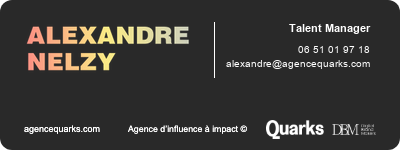
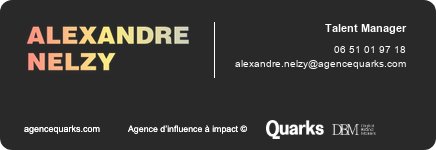
Mettre à jour l’adresse et aérer la signature d’Alexandre
* Mettre à jour l’adresse et aérer la signature d’Alexandre

* Corriger le texte affiché de l’adresse d’Alexandre

* Corriger le texte affiché de l’adresse d’Alexandre

diff --git a/signatures/alexandre-nelzy/signature.html b/signatures/alexandre-nelzy/signature.html
@@ -1,15 +1,15 @@
 <!doctype html>
 <html lang="fr"><head><meta charset="utf-8"><meta name="viewport" content="width=device-width,initial-scale=1"><title>Signature — Alexandre Nelzy</title></head>
 <body style="margin:0;padding:0;background:#fff;">
-<table id="signature" role="presentation" width="400" height="150" cellpadding="0" cellspacing="0" border="0" bgcolor="#292929" style="width:400px;height:150px;table-layout:fixed;border-collapse:separate;border-spacing:0;border-radius:12px;background:#292929;color:#fff;font-family:Arial,Helvetica,sans-serif;-webkit-text-size-adjust:100%;">
+<table id="signature" role="presentation" width="436" height="150" cellpadding="0" cellspacing="0" border="0" bgcolor="#292929" style="width:436px;height:150px;table-layout:fixed;border-collapse:separate;border-spacing:0;border-radius:12px;background:#292929;color:#fff;font-family:Arial,Helvetica,sans-serif;-webkit-text-size-adjust:100%;">
 <tr><td style="padding:17px 24px 11px;vertical-align:top;">
-<table role="presentation" width="352" cellpadding="0" cellspacing="0" border="0" style="width:352px;table-layout:fixed;border-collapse:collapse;">
+<table role="presentation" width="388" cellpadding="0" cellspacing="0" border="0" style="width:388px;table-layout:fixed;border-collapse:collapse;">
 <tr><td width="190" height="71" valign="top" style="width:190px;height:71px;padding:0;">
 <img src="https://raw.githubusercontent.com/raphaeldumaslevillain-commits/signature-mail-quarks-lea/main/signatures/alexandre-nelzy/identite.png" width="166" alt="Alexandre Nelzy" style="display:block;border:0;width:165.6px;height:auto;">
-</td><td width="162" valign="top" style="width:162px;padding:5px 0 0;">
-<table role="presentation" width="162" cellpadding="0" cellspacing="0" border="0" style="width:162px;table-layout:fixed;border-collapse:separate;border-spacing:0;"><tr><td align="right" style="border-left:1px solid #fff;padding:0 6px 0 8px;height:55px;vertical-align:top;text-align:right;">
+</td><td width="198" valign="top" style="width:198px;padding:5px 0 0;">
+<table role="presentation" width="198" cellpadding="0" cellspacing="0" border="0" style="width:198px;table-layout:fixed;border-collapse:separate;border-spacing:0;"><tr><td align="right" style="border-left:1px solid #fff;padding:0 6px 0 8px;height:55px;vertical-align:top;text-align:right;">
 <div style="font-size:11px;line-height:15px;font-weight:700;white-space:nowrap;">Talent Manager</div>
-<div style="font-size:10px;line-height:14px;padding-top:6px;white-space:nowrap;"><a href="tel:+33651019718" style="color:#fff;text-decoration:none;">06 51 01 97 18</a><br><a href="mailto:alexandre@agencequarks.com" style="color:#fff;text-decoration:none;">alexandre@agencequarks.com</a></div>
+<div style="font-size:10px;line-height:14px;padding-top:6px;white-space:nowrap;"><a href="tel:+33651019718" style="color:#fff;text-decoration:none;">06 51 01 97 18</a><br><a href="mailto:alexandre.nelzy@agencequarks.com" style="color:#fff;text-decoration:none;">alexandre.nelzy@agencequarks.com</a></div>
 </td></tr></table></td></tr>
 <tr><td colspan="2" height="31" style="height:31px;font-size:0;line-height:31px;">&nbsp;</td></tr>
 <tr><td colspan="2" height="20" style="height:20px;padding:0;"><table role="presentation" width="352" cellpadding="0" cellspacing="0" border="0" style="width:352px;table-layout:fixed;border-collapse:collapse;"><tr>

diff --git a/signatures/alexandre-nelzy/index.html b/signatures/alexandre-nelzy/index.html
@@ -1,15 +1,15 @@
 <!doctype html>
 <html lang="fr"><head><meta charset="utf-8"><meta name="viewport" content="width=device-width,initial-scale=1"><title>Signature — Alexandre Nelzy</title></head>
 <body style="margin:0;padding:0;background:#fff;">
-<table id="signature" role="presentation" width="400" height="150" cellpadding="0" cellspacing="0" border="0" bgcolor="#292929" style="width:400px;height:150px;table-layout:fixed;border-collapse:separate;border-spacing:0;border-radius:12px;background:#292929;color:#fff;font-family:Arial,Helvetica,sans-serif;-webkit-text-size-adjust:100%;">
+<table id="signature" role="presentation" width="436" height="150" cellpadding="0" cellspacing="0" border="0" bgcolor="#292929" style="width:436px;height:150px;table-layout:fixed;border-collapse:separate;border-spacing:0;border-radius:12px;background:#292929;color:#fff;font-family:Arial,Helvetica,sans-serif;-webkit-text-size-adjust:100%;">
 <tr><td style="padding:17px 24px 11px;vertical-align:top;">
-<table role="presentation" width="352" cellpadding="0" cellspacing="0" border="0" style="width:352px;table-layout:fixed;border-collapse:collapse;">
+<table role="presentation" width="388" cellpadding="0" cellspacing="0" border="0" style="width:388px;table-layout:fixed;border-collapse:collapse;">
 <tr><td width="190" height="71" valign="top" style="width:190px;height:71px;padding:0;">
 <img src="identite.png" width="166" alt="Alexandre Nelzy" style="display:block;border:0;width:165.6px;height:auto;">
-</td><td width="162" valign="top" style="width:162px;padding:5px 0 0;">
-<table role="presentation" width="162" cellpadding="0" cellspacing="0" border="0" style="width:162px;table-layout:fixed;border-collapse:separate;border-spacing:0;"><tr><td align="right" style="border-left:1px solid #fff;padding:0 6px 0 8px;height:55px;vertical-align:top;text-align:right;">
+</td><td width="198" valign="top" style="width:198px;padding:5px 0 0;">
+<table role="presentation" width="198" cellpadding="0" cellspacing="0" border="0" style="width:198px;table-layout:fixed;border-collapse:separate;border-spacing:0;"><tr><td align="right" style="border-left:1px solid #fff;padding:0 6px 0 8px;height:55px;vertical-align:top;text-align:right;">
 <div style="font-size:11px;line-height:15px;font-weight:700;white-space:nowrap;">Talent Manager</div>
-<div style="font-size:10px;line-height:14px;padding-top:6px;white-space:nowrap;"><a href="tel:+33651019718" style="color:#fff;text-decoration:none;">06 51 01 97 18</a><br><a href="mailto:alexandre@agencequarks.com" style="color:#fff;text-decoration:none;">alexandre@agencequarks.com</a></div>
+<div style="font-size:10px;line-height:14px;padding-top:6px;white-space:nowrap;"><a href="tel:+33651019718" style="color:#fff;text-decoration:none;">06 51 01 97 18</a><br><a href="mailto:alexandre.nelzy@agencequarks.com" style="color:#fff;text-decoration:none;">alexandre.nelzy@agencequarks.com</a></div>
 </td></tr></table></td></tr>
 <tr><td colspan="2" height="31" style="height:31px;font-size:0;line-height:31px;">&nbsp;</td></tr>
 <tr><td colspan="2" height="20" style="height:20px;padding:0;"><table role="presentation" width="352" cellpadding="0" cellspacing="0" border="0" style="width:352px;table-layout:fixed;border-collapse:collapse;"><tr>
